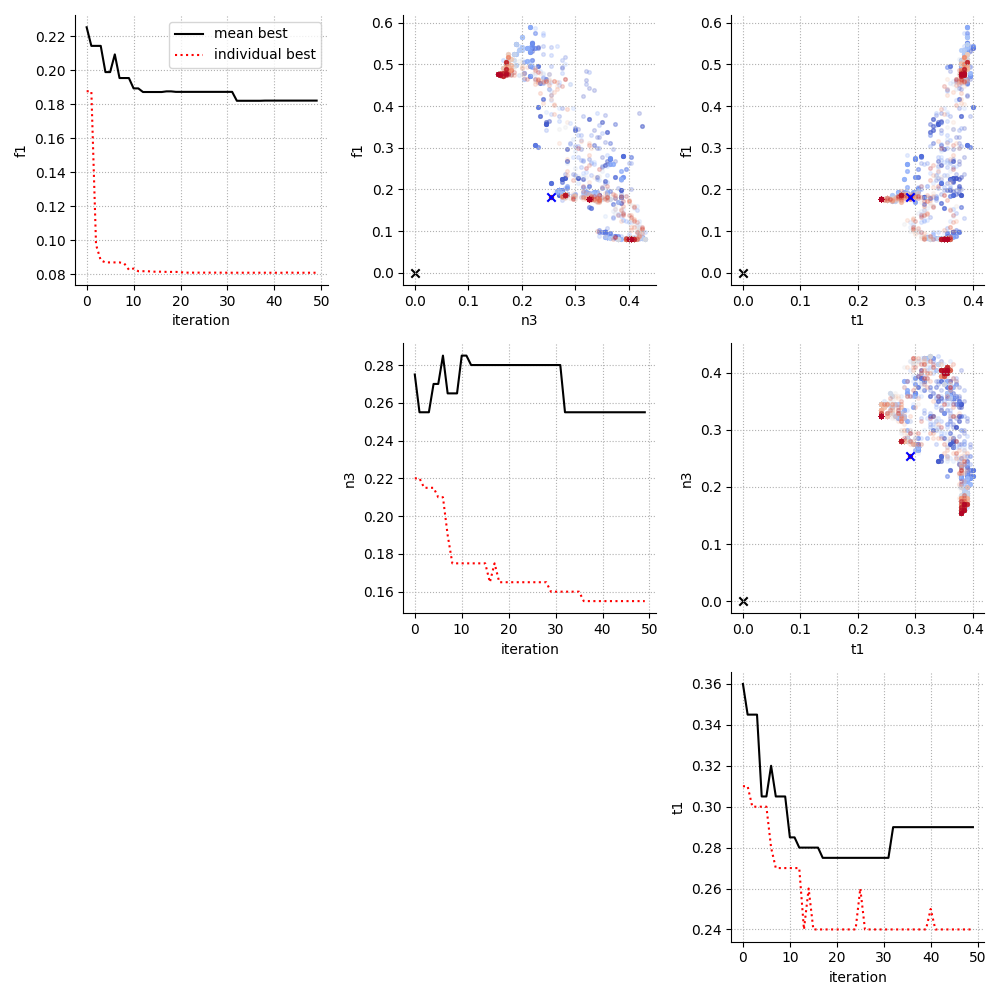
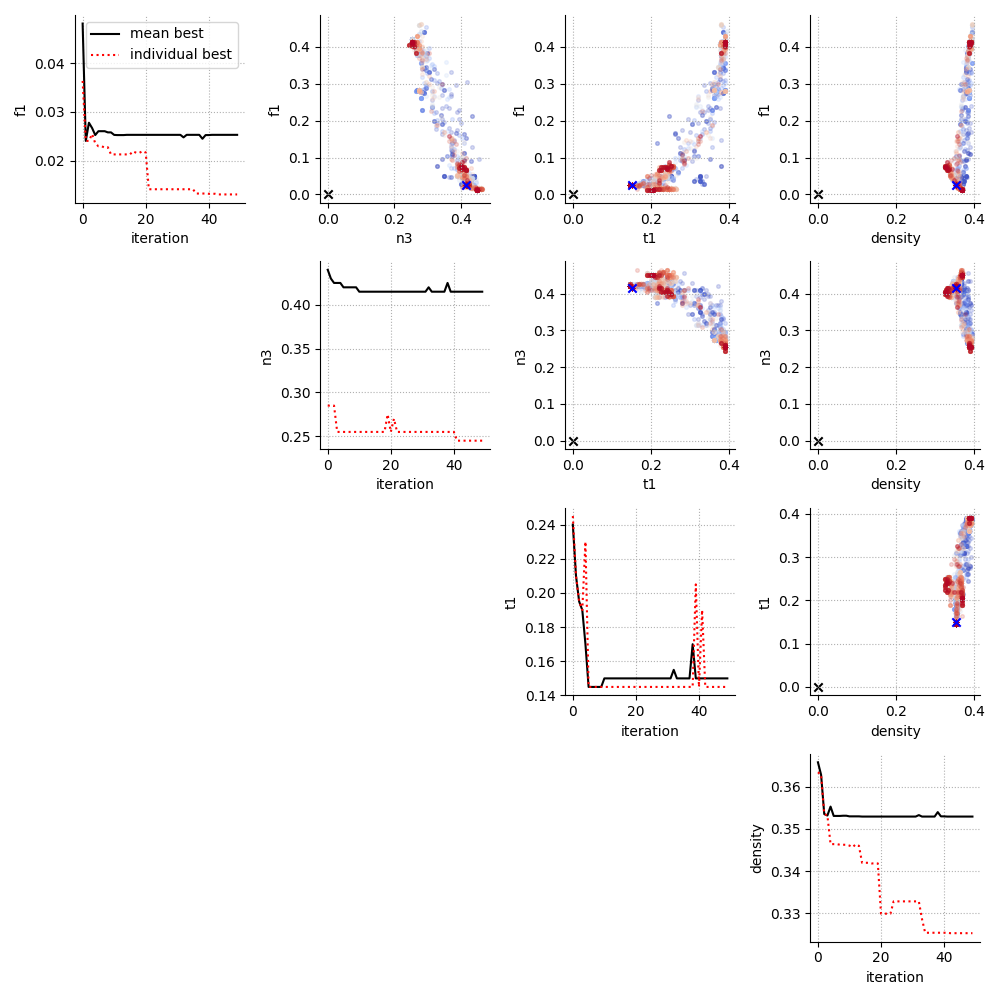
.

diff --git a/Generate.py b/Generate.py
@@ -187,7 +187,7 @@ class GenComplexity:
 
 
 ### target
-complexity_fun = [f1, n3, t1]
+complexity_fun = [f1, n3, t1, density]
 
 # X_target, y_target = load_breast_cancer(return_X_y=True)
 # targets = [f(X_target, y_target) for f in complexity_fun]
